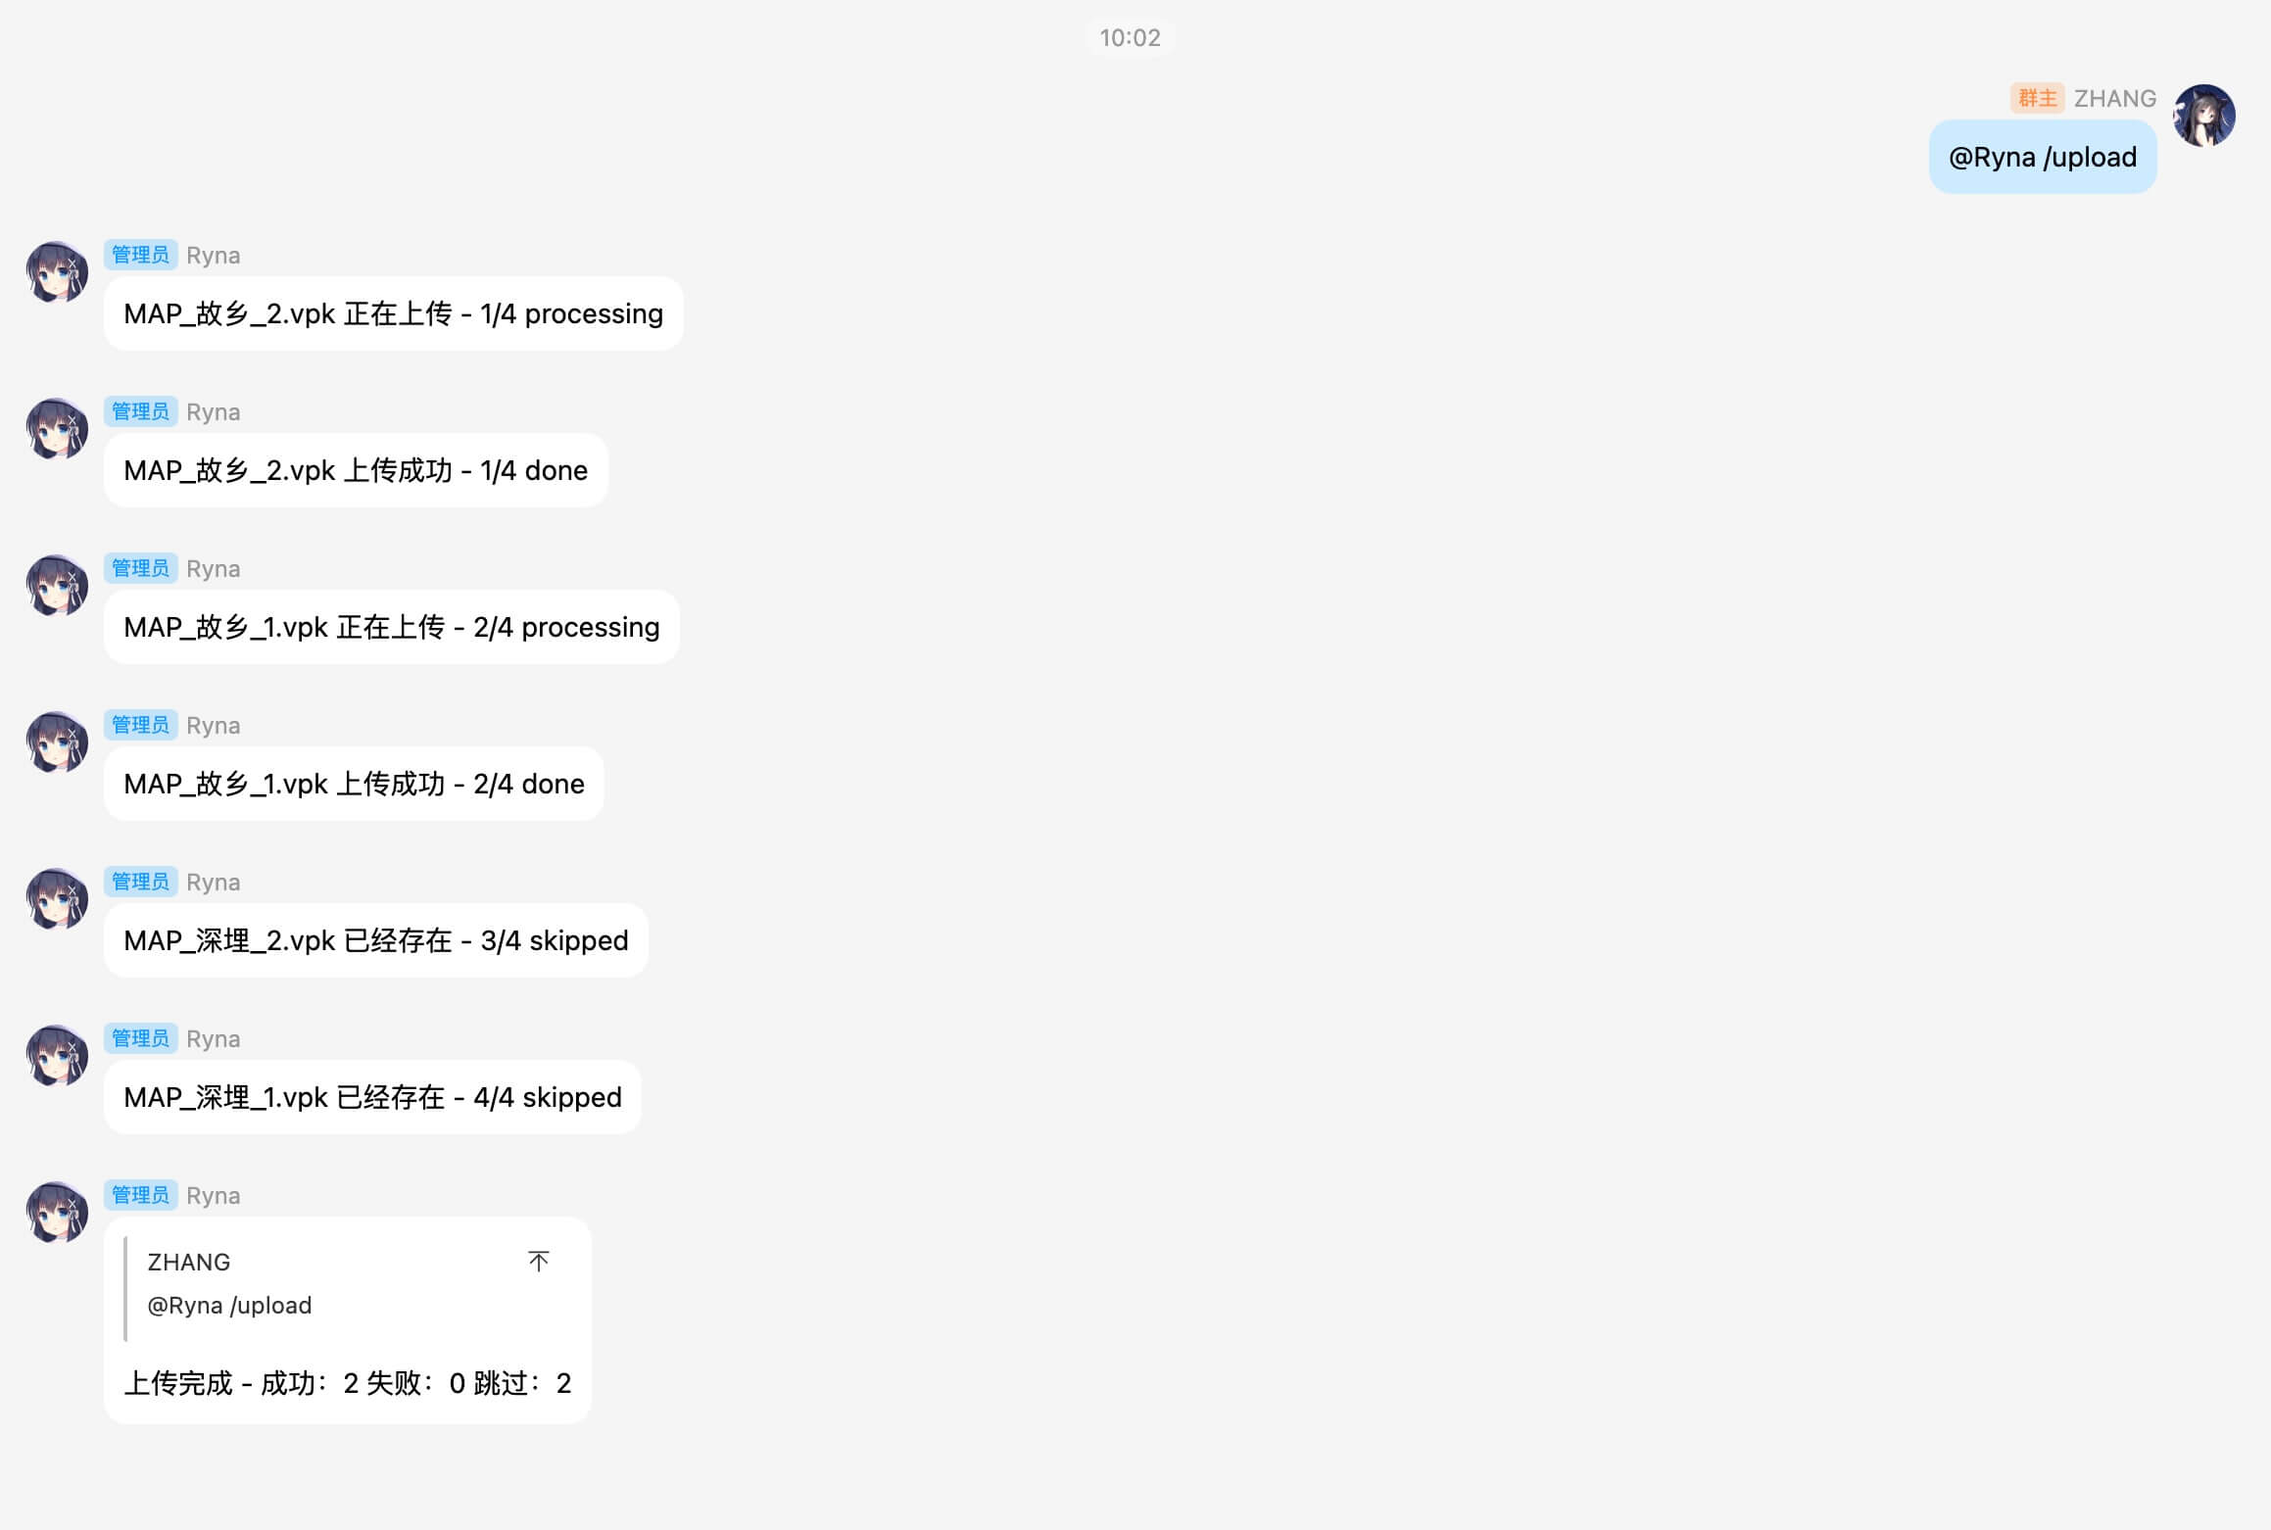
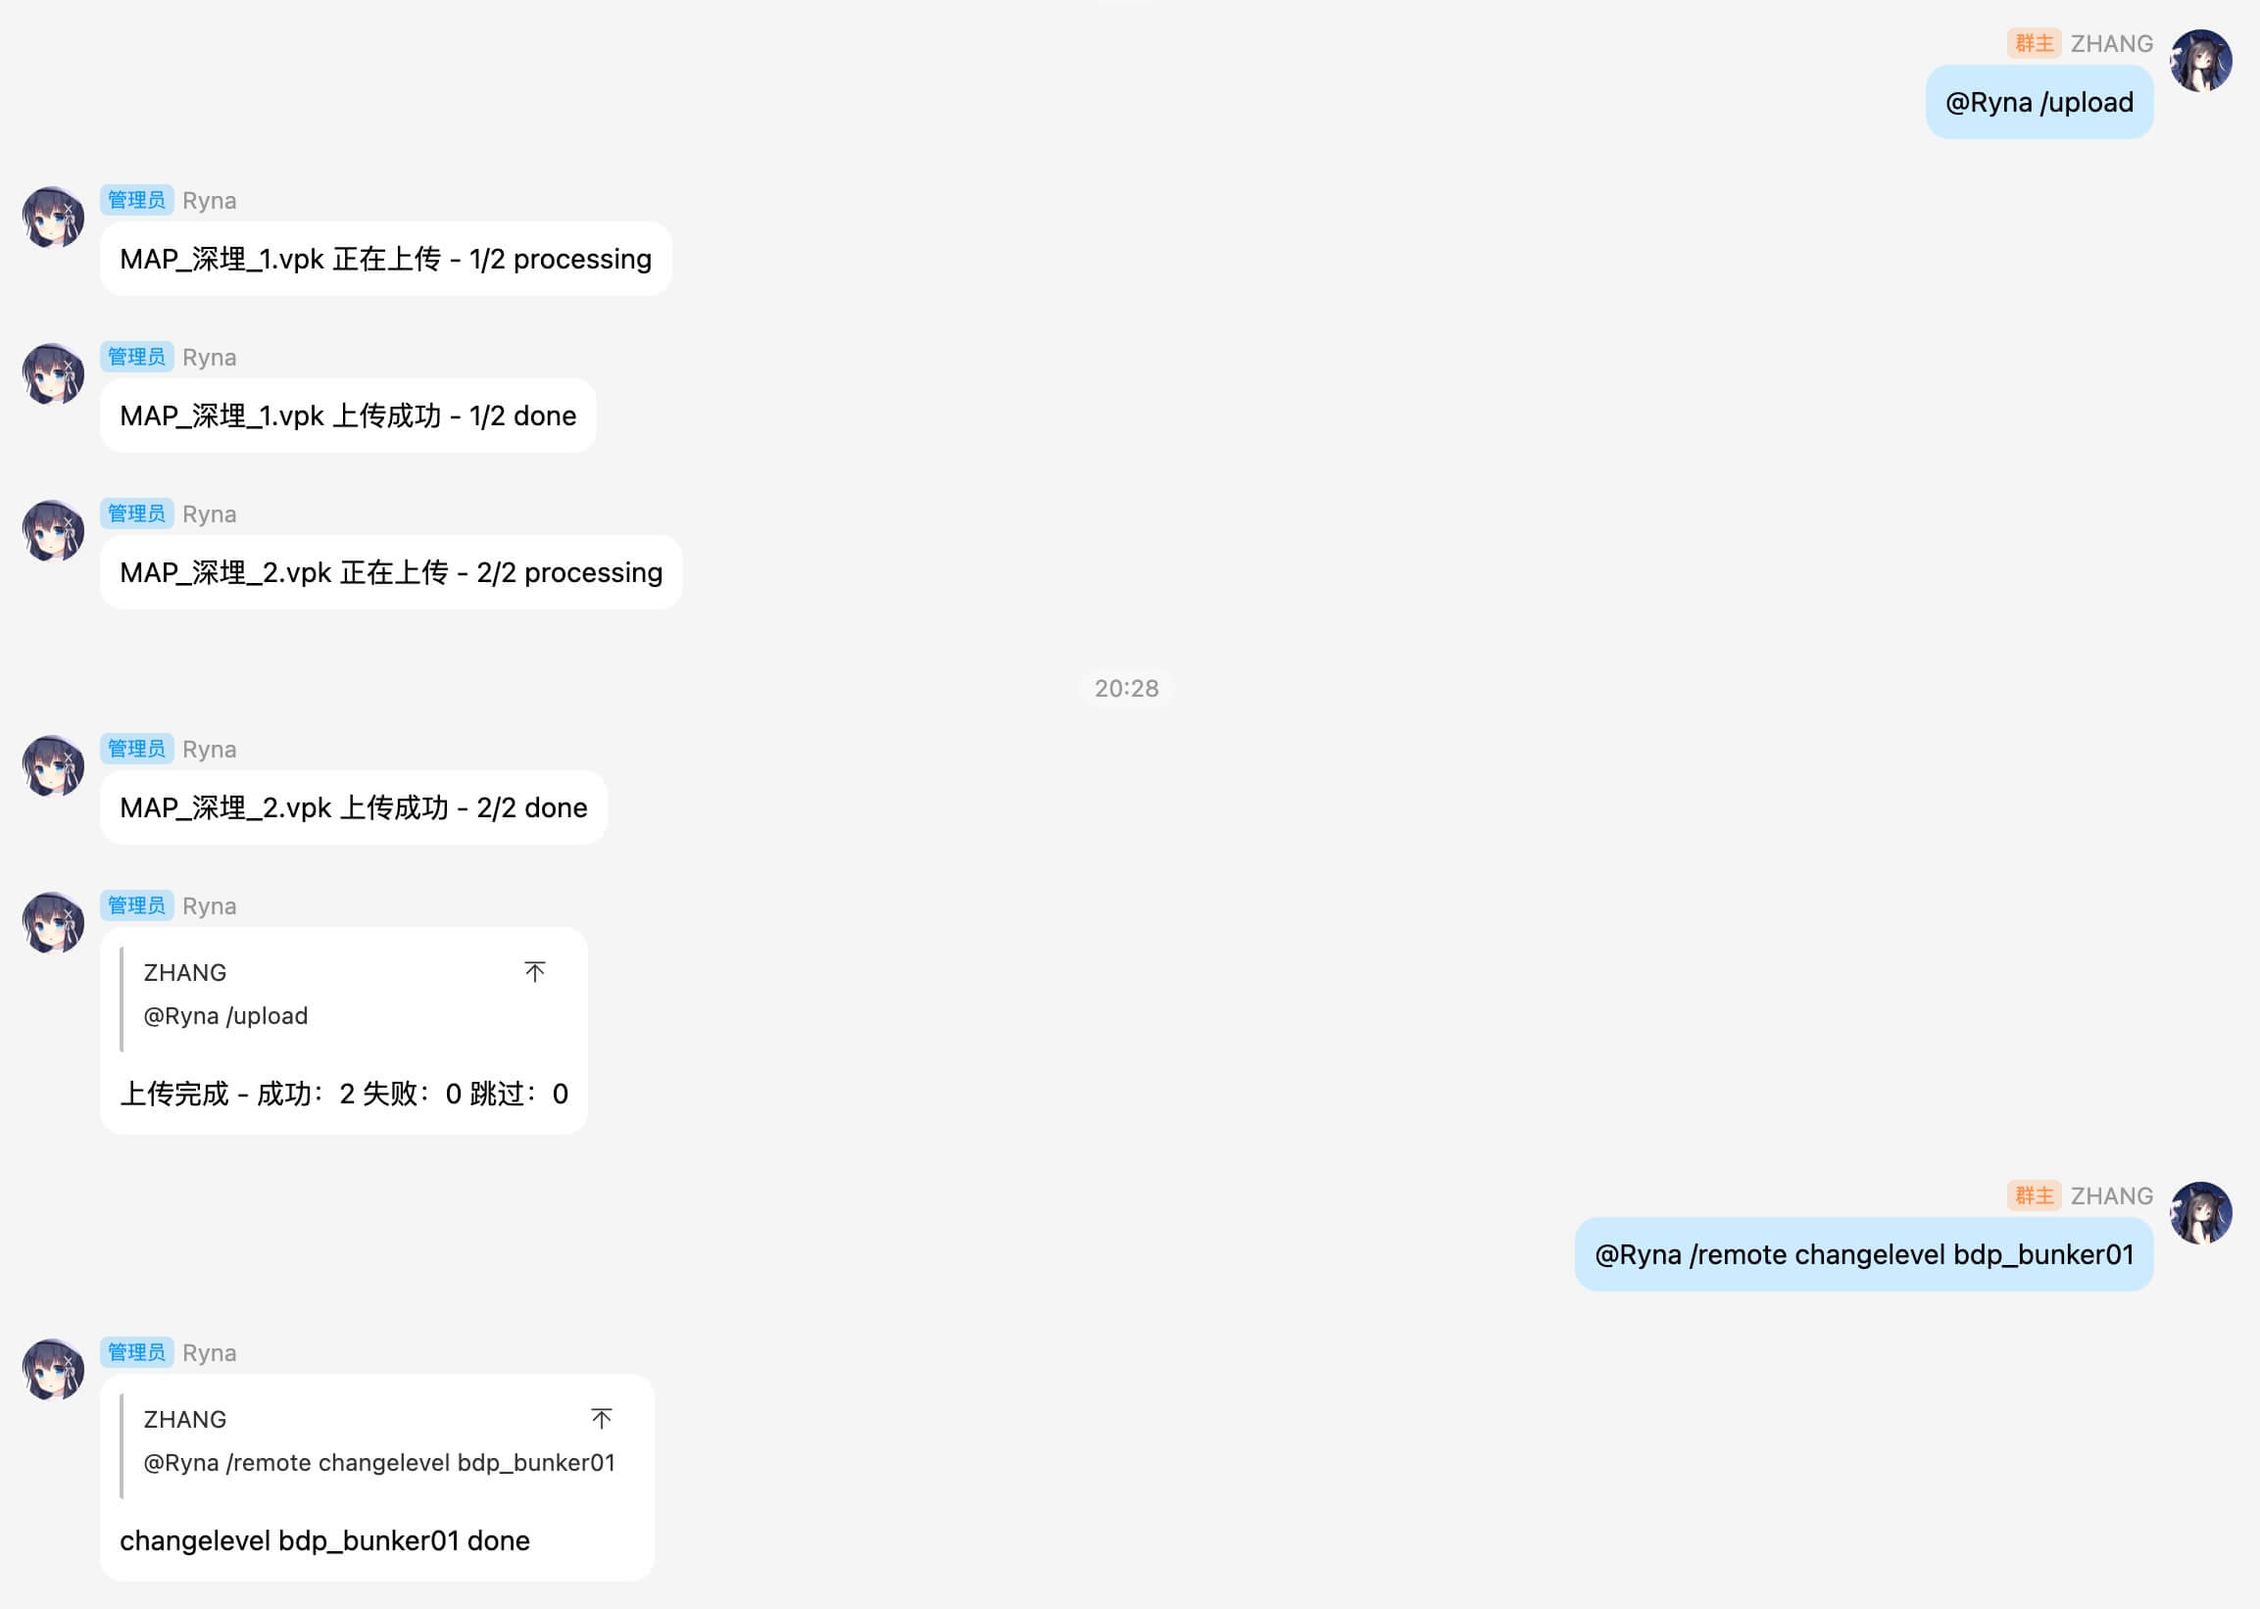
docs: 修改目录结构

diff --git a/source/docs/changelog/index.md b/source/docs/changelog/index.md
@@ -8,6 +8,14 @@ toc: false
 
 ## 变更记录
 
+### v1.2.2 - 2026.09.24
+
+**docs: 修改 QQ Bot 目录结构**
+{% note modern no-icon %}
+
+- 修改 QQ Bot 文档目录结构
+  {% endnote %}
+
 ### v1.2.1 - 2026.09.24
 
 **docs: QQ Bot 应用实例文档**
